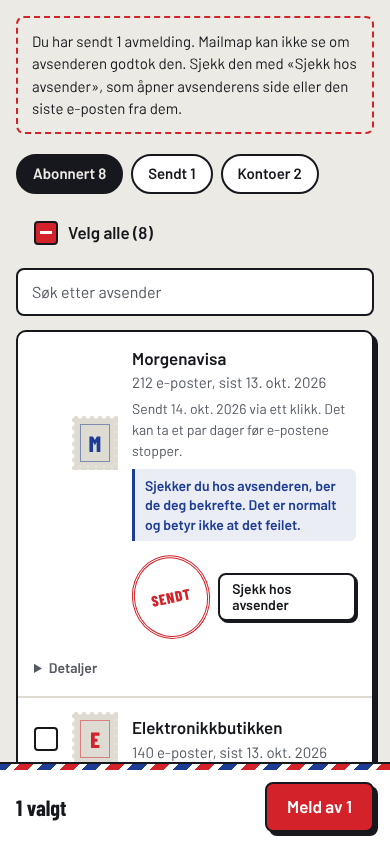
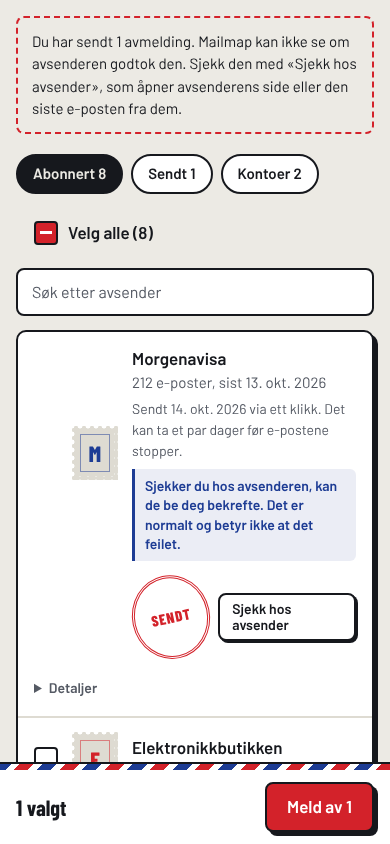
Hint wording: senders 'can' ask for confirmation, not all do
Claude-Session: https://claude.ai/code/session_01XbGBdyfTHEKzCp5Y8JLQWF

diff --git a/web/app.js b/web/app.js
@@ -434,7 +434,7 @@ function subRow(s){
     who.append(el("span", "note " + (e.checked && v !== "quiet" ? "quiet" : v), when + tail));
     // Visiting a one-click link in the browser always asks for confirmation – say it up front.
     if (s.oneClick && v !== "quiet")
-      who.append(el("span", "hint", "Sjekker du hos avsenderen, ber de deg bekrefte. Det er normalt og betyr ikke at det feilet."));
+      who.append(el("span", "hint", "Sjekker du hos avsenderen, kan de be deg bekrefte. Det er normalt og betyr ikke at det feilet."));
   }
   const act = el("div","act");
   const pageLink = (label, cls, extra) => {

diff --git a/web/index.html b/web/index.html
@@ -250,7 +250,7 @@ h2{font:800 clamp(32px,7vw,42px)/1 var(--display);margin:0;text-wrap:balance}
 </div>
 <div class="toast" id="toast" role="status"></div>
 
-<script src="config.js?v=ceb3a7b1"></script>
-<script src="app.js?v=ceb3a7b1"></script>
+<script src="config.js?v=cdce3782"></script>
+<script src="app.js?v=cdce3782"></script>
 </body>
 </html>

diff --git a/README.md b/README.md
@@ -33,7 +33,7 @@ sender allows it, on the sender's own page where it doesn't. No server; everythi
    **«Sjekk hos avsender»**, som åpner den siste avmeldingslenken avsenderen sendte. Noen ett-klikks-adresser tar
    bare imot `POST` og viser en feilside i nettleseren. Da finnes **«Åpne siste e-post»** under *Detaljer*, som åpner
    den siste e-posten fra avsenderen i Gmail eller Outlook, der avmeldingslenken nederst virker.
-   Åpnes en ett-klikks-lenke i nettleseren, ber avsenderen nesten alltid om bekreftelse (pause, skriv e-post, bekreft).
+   Åpnes en ett-klikks-lenke i nettleseren, kan avsenderen be om bekreftelse (pause, skriv e-post, bekreft). Andre viser bare at du er avmeldt.
    Det er med vilje: bare `POST`-en Mailmap sender melder av direkte, så lenkeskannere ikke kan melde folk av ved uhell.
    Mailmap forklarer dette i hver avmeldte avsender og når siden åpnes.
    Når du har sjekket, merkes avsenderen «Du har sjekket hos avsenderen».
